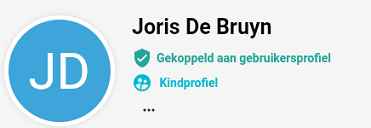
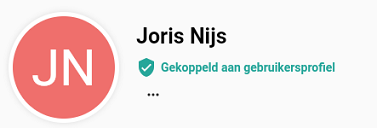
changes
changes

diff --git a/docs/admin/member-management.md b/docs/admin/member-management.md
@@ -34,14 +34,14 @@ Afhankelijk van de gekozen weergave zijn er ook andere ledenacties mogelijk (zie
 Het is mogelijk verschillende filters toe te passen:
 - Naam (er wordt gezocht in zowel voor- en achternaam)
 - Toon inactieve leden (deze verschijnen in het grijs tussen de actieve leden)
-- Type lid (gekoppelde leden gebruiken Squatix, niet-gekoppelde leden zijn niet gekoppeld met een echte gebruiker (zie ([Toevoegen leden](#toevoegen))))
+- Type lid (gekoppelde leden gebruiken Squatix, niet-gekoppelde leden zijn niet gekoppeld met een echte gebruiker (zie [Toevoegen leden](#toevoegen)))
 - Rol (zie [Rollen](#rollen))
 - Status abonnement (geldig of niet meer geldig)
 - Type abonnement (met beurten of enkel met een geldigheidsdatum)
 - Abonnementscategorie (zie [Abonnement](#abonnement))
 - Meetingscategorie (filter wordt enkel getoond indien een abonnementscategorie is geselecteerd, filter bevat de meetingscategorieën gelinkt aan dit abonnement, 
 zie [AbonnementsCategorieën](settings.md#abonnementscategorieën). Resultaat toont de leden die een abonnement hebben met de geselecteerde abonnementscategorie en 
-waarvoor de aangeduide meetingscategoriën aangevinkt staan als "automatisch inschrijven".
+waarvoor de aangeduide meetingscategoriën aangevinkt staan als "automatisch inschrijven".)
 - Nieuwsbrief geabboneerd
 - Nieuwsbrief ingeschakeld
 
@@ -62,6 +62,12 @@ Een van de extra filters weer verwijderen kan door op "meer filters" te klikken 
 ## Ledenacties
 
 ### Exporteer (weergave leden)
+
+Data van de leden kan geexporteerd worden naar een excel file. Vink eerst de leden aan, selecteer "exporteer" in het drop-down menu en klik op "uitvoeren".
+
+In het geopende scherm kan je de layout van de excel file definiëren: selecteer of deselecteer data die je wel of niet wilt zien. Ook de volgorde van de kolommen kan aangepast worden door ze hoger of lager te plaatsen.
+
+![Export excel](/assets/images/export_excel.png)
 
 ### Genereer QR (weergave leden)
 QR-codes van leden kunnen ook afgedrukt worden. Met deze codes kunnen leden gescand worden om hun aanwezigheid op de meeting te bevestigen (zie [QR scanning](qr-scanning.md)). Vink in het overzicht de leden aan, selecteer "Genereer QR" in het drop-down menu en klik op uitvoeren. Een PDF bestand met de gewenste QR codes wordt geopend.
@@ -86,6 +92,12 @@ vul je de naam van het team in, klik je op bewaar en het team is aangemaakt. (zi
 
 ### Betaling aanmaken (weergave leden)
 
+Deze actie kan gebruikt worden om voor meerdere leden tegelijk een losse betaling aan te maken. Vink in het overzicht de gewenste leden aan en selecteer "Betaling aanmaken". Op de volgende pagina
+kan je een bedrag en een beschrijving invullen en eventueel betalingsregels toevoegen. Klik op bewaar en de geselecteerde leden krijgen een melding dat hen een betaling wacht. Voor meer uitleg
+over betalingen zie [Betalingen](payments.md))
+
+![create payment](/assets/images/memberactions_payment.png)
+
 ### Maak een groepschat (weergave leden)
 
 ### Bewerk abonnementen (weergave abonnementen)
@@ -96,8 +108,8 @@ Bovenaan vind je een overzicht met de geselecteerde leden, met X kan je eventuee
 ![mass subscriptions](/assets/images/mass_subscriptions1.png)	
 		
 In het onderste deel kan je gewenste actie selecteren:
-- Nieuw abonnement toevoegen: alle geselecteerde leden krijgen een nieuwe abonnement toegevoegd. Dit nieuw abonnement moet compatibel zijn met hun bestaande actieve 
-abonnementen. Selecteer de gewenste opties van dit nieuwe abonnement en klik op "Bewaar"
+- Nieuw abonnement toevoegen: alle geselecteerde leden krijgen een nieuwe abonnement toegevoegd. Selecteer het gewenste abonnement en pas eventueel de standaardprijs nog aan. Klik op "Bewaar".
+Om abonnementen te definiëren zie (TODO)
 
 ![mass subscriptions](/assets/images/mass_subscriptions2.png)
 
@@ -171,7 +183,6 @@ of overschreven in het gebruikersprofiel van het lid. Beide profielen staan los 
 In de bovenste sectie kan je het volgende terugvinden:
 - Foto: uploaden van een foto voor het lid, deze staat los van de eigen foto die het lid in zijn profiel heeft toegevoegd en zal deze dus niet overschrijven
 - Gekoppeld aan gebruikersprofiel: dit label wordt getoond indien een fysieke gebruiker aan dit lid gekoppeld is (na een ledenverzoek, zie [Ledenverzoeken](#ledenverzoeken))
-- Kindprofiel: dit label wordt getoond indien een kindprofiel aan dit lid gekoppeld is 
 - Inactief maken: door een lid inactief te maken is hij niet meer aanpasbaar maar telt hij ook niet meer mee in het aantal leden (voor berekening van het clubabonnement).
 Zijn profiel kan wel nog bekeken worden door te zoeken op inactieve leden in het overzicht (zie ([Overzicht](#toevoegen))).
 

diff --git a/docs/admin/meetings.md b/docs/admin/meetings.md
@@ -137,8 +137,9 @@ Volgende velden kan je invullen:
 - Beschrijving (optioneel)
 - Categorie (verplicht)
 - Trainers (optioneel)
-- Automatisch alle leden inschrijven die aan de categorie zijn gekoppeld (optioneel)
+- Automatisch teams inschrijven (optioneel)
 - Beperk deelnemers (optioneel)
+- Wachtlijst toestaan (optioneel)
 - Herhaal meeting (optioneel)
 
 **Categorie**
@@ -187,31 +188,6 @@ Je kan er ook voor kiezen om verschillende taken op te geven, zo kunnen vrijwill
 
 Om leden van je club vrijwilliger te maken, zie [Ledenbeheer](member-management.md#vrijwilligers).
 
-**Automatisch alle leden inschrijven die aan de categorie zijn gekoppeld**
-
-Indien je dit aanvinkt wordt de meeting aangeduid als "automatisch inschrijven". Dit houdt in dat na creatie van de meeting alle leden van jouw club automatisch 
-als deelnemer zullen toegevoegd worden aan de meeting indien ze aan volgende criteria voldoen:
-- Geldig abonnement op datum van de meeting:
-	- Geldigheidsdatum later dan de begintijd
-	- Abonnementscategorie is gelinkt aan de meetingscategorie (zie [AbonnementsCategorieën](settings.md#abonnementscategorieën))
-	- Met aantal resterende beurten wordt geen rekening gehouden.
-- Niet aangeduid als trainer voor de meeting
-- De meetingscategorie is geselecteerd onder "Categorieën automatisch inschrijven" op het overeenkomende actieve abonnement van het lid 
-(zie [Abonnement](member-management.md#abonnement))
-- Lid is niet inactief
-- Lid heeft zich niet eerder manueel uitgeschreven van de meeting (enkel toepasbaar indien meeting eerder aangemaakt werd als "gewone" meeting en pas later 
-aangepast werd naar "automatisch inschrijven" - meeting)
-
-![automatisch inschrijven](/assets/images/new_meeting_autosubscribe.png)
-
-Indien een meeting aangeduid is als "automatisch inschrijven" wordt bij verschillende acties gekeken of de deelnemerslijst automatisch moet aangepast worden:
-- Aanvinken "automatisch inschrijven" bij aanpassen/aanmaken meeting
-- Verwijderen/toevoegen van trainers
-- Veranderen categorie van de meeting
-- Aanvaarden/toevoegen van een nieuw lid in de club (zie [Ledenbeheer](member-management.md))
-- Aanpassen van een abonnement van een lid (zie [Abonnement](member-management.md#abonnement))
-- Toewijzen/verwijderen van een meetingcategorie bij een abonnementscategorie
-
 **Automatisch teams inschrijven**
 
 Indien je dit aanvinkt wordt de meeting aangeduid als "automatisch teams inschrijven". Dit houdt in dat na creatie van de meeting alle leden die in een van de toegevoegde teams zitten automatisch 
@@ -233,6 +209,13 @@ Met deze instelling wordt geen rekening gehouden in volgende gevallen:
 - Wanneer de meeting aangeduid is als "automatisch inschrijven" en er hierdoor leden automatisch moeten toevoegd worden
 
 ![meeting categorie](/assets/images/new_meeting_limit_members.png)
+
+**Wachtlijst toestaan**
+
+Indien in de vorige stap een maximum aantal deelnemers ingesteld is kan optioneel een wachtlijst gestart worden wanneer het maximum aantal deelnemers bereikt is. Leden die hierop inschrijven
+zullen, in volgorde van inschrijving, automatisch toegelaten worden tot de meeting wanneer er een plaats vrijkomt.
+
+![wachtlijst](/assets/images/new_meeting_waiting_list.png)
 		
 **Herhaal meeting**
 
@@ -244,7 +227,5 @@ herhaling dient te stoppen (maximum 1 jaar in de toekomst). Zodra de meeting wor
 		
 **Bewaren** 
 
-Indien een meeting wordt aangepast en deze onderdeel is van een serie wordt bij het bewaren van de meeting gevraagd of enkel de geopende meeting moet aangepast worden 
-of de aanpassing moet doorgevoerd worden in (een deel van) de serie. 
-Indien serie aangeduid wordt: selecteer de meetings waarop de aanpassing moet doorgevoerd worden (standaard staat elke meeting van de serie geselecteerd) en klik op 
-bewaren. Alle geselecteerde meetings zullen nu aangepast worden met de ingegeven veranderingen.
+Indien een meeting wordt aangepast en deze onderdeel is van een serie wordt bij het starten van het editeren van de meeting gevraagd of enkel de geopende meeting moet aangepast worden 
+of de aanpassing moet doorgevoerd worden in de serie. 

diff --git a/docs/admin/qr-scanning.md b/docs/admin/qr-scanning.md
@@ -32,18 +32,18 @@ Het scan scherm opent zich, richt de scanner naar een QR-code om verder te gaan.
 ## Code scannen
 
 Een QR-code scannen kan op twee manieren:
-- De afgeprinte code scannen die kan gegenereerd worden via [QR genereren](member-management.md#qr-genereren). 
+- De afgeprinte code scannen die kan gegenereerd worden via [QR genereren](member-management.md#genereer-qr-(weergave-leden)). 
 - De code scannen die het lid toont op zijn smartphone
 
 Na het scannen van de code kunnen twee gevallen zich voordoen:
 
 **Lid bevestigen**  
-Het lid heeft geen gewoon profiel en het "lid bevestigen" scherm opent zich. Indien het getoonde lid correct is,  duw op "Bevestig"
+Het lid heeft één profiel dat lid is van de club en het "lid bevestigen" scherm opent zich. Indien het getoonde lid correct is,  duw op "Bevestig"
 
 ![Confirm member](/assets/images/qr_confirmmember.png)
 
 **Selecteer lid**  
-Het lid is gekoppeld aan een kindprofiel en de ouder is ook lid van de club OF het lid is de ouder maar het kind is ook lid van de club: in dit geval weet Squatix niet welk van deze leden
+Het lid is gekoppeld aan meerdere profielen die lid zijn van de club: in dit geval weet Squatix niet welk van deze leden
 zich momenteel wil laten bevestigen voor de meeting. Selecteer in de dropdown het juiste lid en klik op "Bevestig"
 
 ![Select member](/assets/images/qr_selectmember.png)

diff --git a/admin-manual.md b/admin-manual.md
@@ -13,6 +13,6 @@ QR scanning waarvoor de mobiele app versie gebruikt is.
   
 Alle functionaliteiten zijn zowel beschikbaar in de web, android -en iOS versie op uitzondering van:
 - QR-scanning (zie [QR-scanning](docs/admin/qr-scanning.md)): enkel mogelijk in de mobiele app versie
-- Ledenacties (zie [Ledenacties](docs/admin/member-management.md#Ledenacties)): enkel mogelijk in de webversie
+- Ledenacties (zie [Ledenacties](docs/admin/member-management.md#ledenacties)): enkel mogelijk in de webversie
 - Nieuwsbrieven (zie [Nieuwsbrieven](docs/admin/newsletter.md)): enkel mogelijk in de webversie
 
